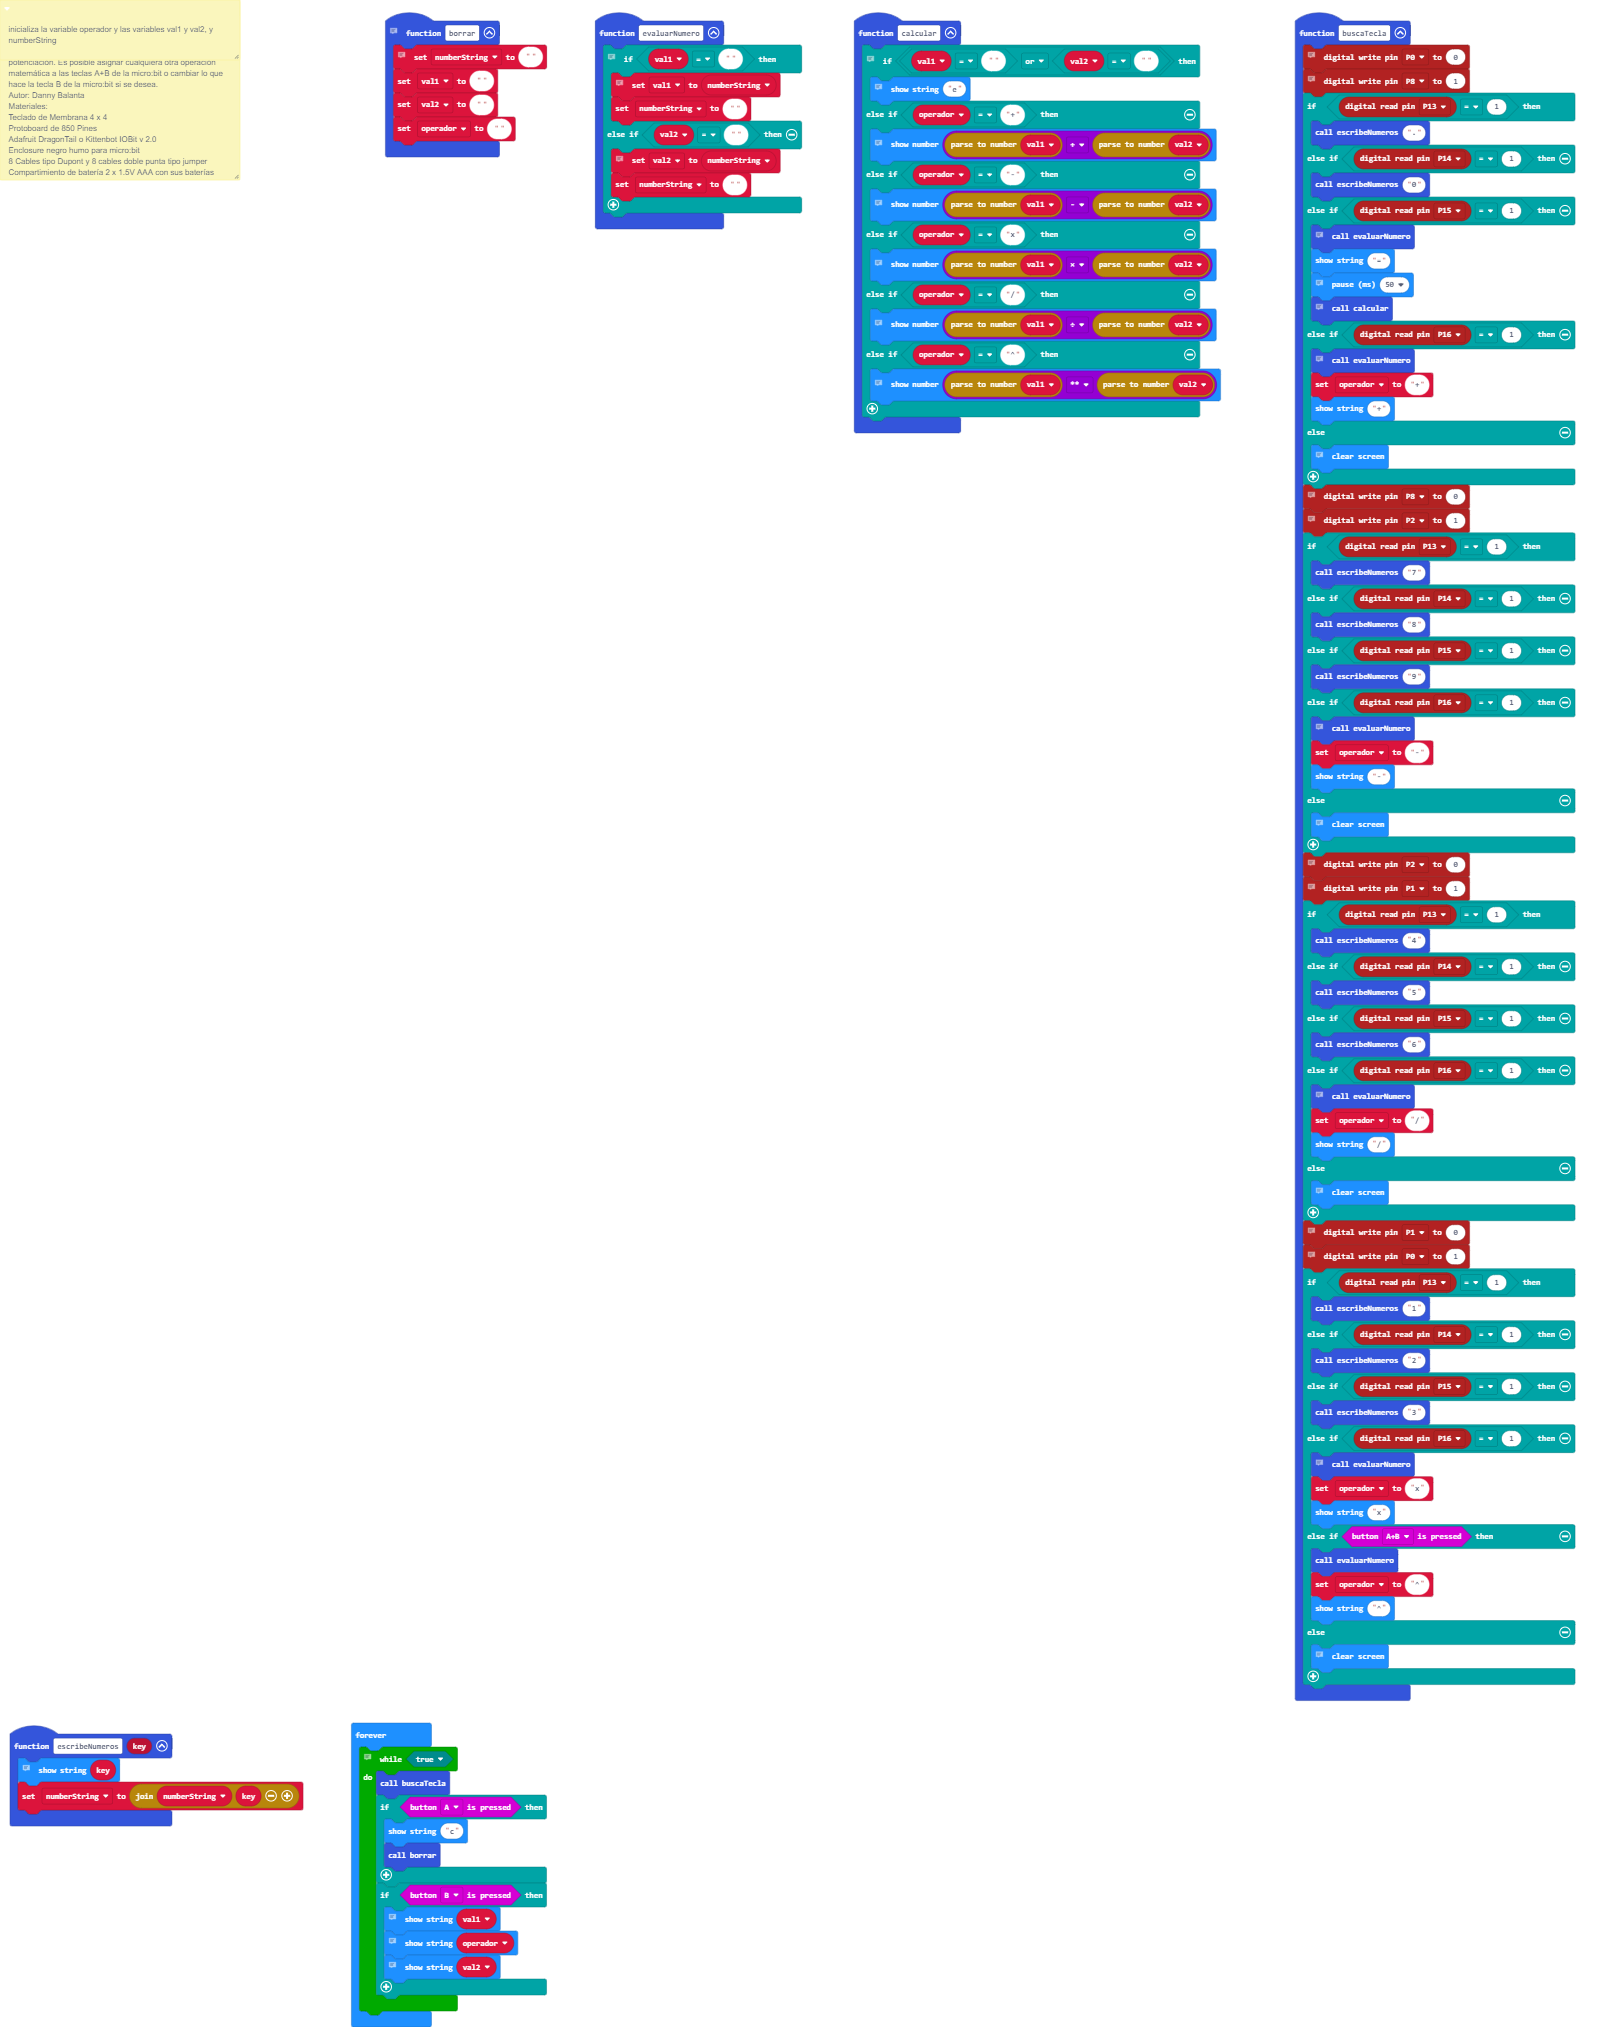
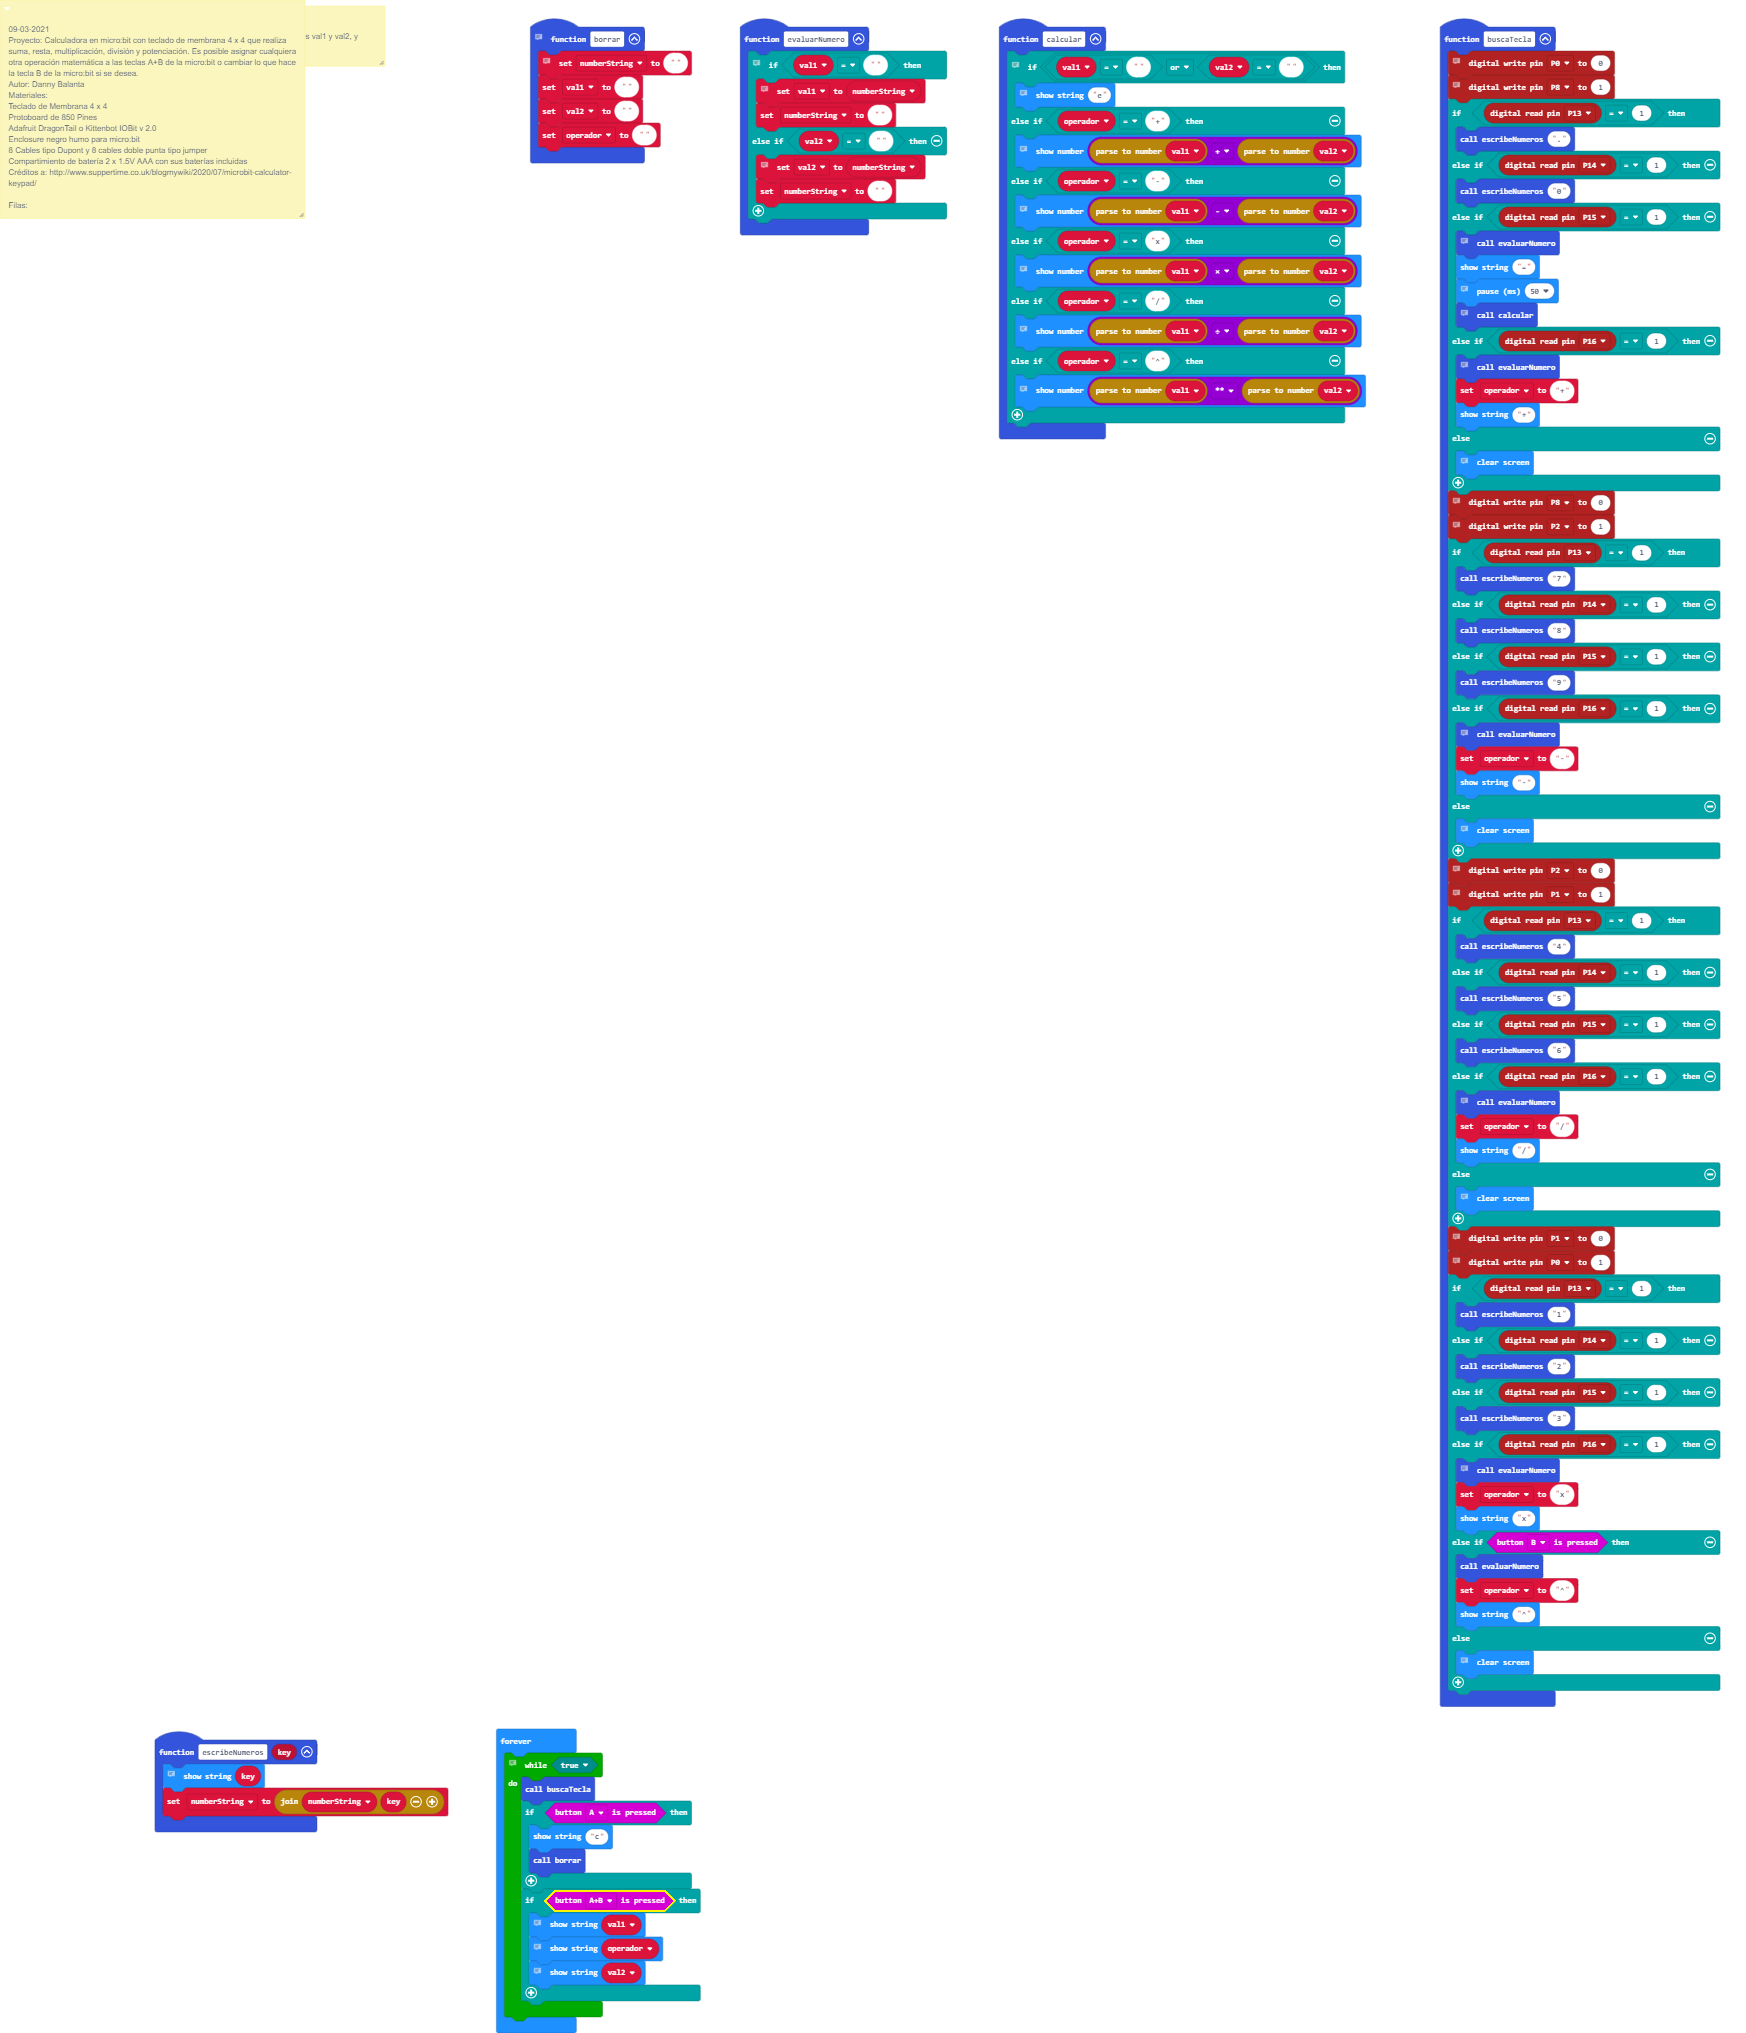
Changed A+B and B button actions. Now B Button makes powers!

Changed region(s): [[0.0, 0.0, 0.9994, 0.8392], [0.0, 0.8392, 0.406, 1.0], [0.9681, 0.7459, 0.9994, 0.777]]

diff --git a/main.ts b/main.ts
@@ -122,7 +122,7 @@ function buscaTecla () {
         evaluarNumero()
         operador = "x"
         basic.showString("x")
-    } else if (input.buttonIsPressed(Button.AB)) {
+    } else if (input.buttonIsPressed(Button.B)) {
         evaluarNumero()
         operador = "^"
         basic.showString("^")
@@ -214,7 +214,7 @@ basic.forever(function () {
             basic.showString("c")
             borrar()
         }
-        if (input.buttonIsPressed(Button.B)) {
+        if (input.buttonIsPressed(Button.AB)) {
             // muestra la cadena almacenada en val1
             basic.showString(val1)
             // muestra el operador
